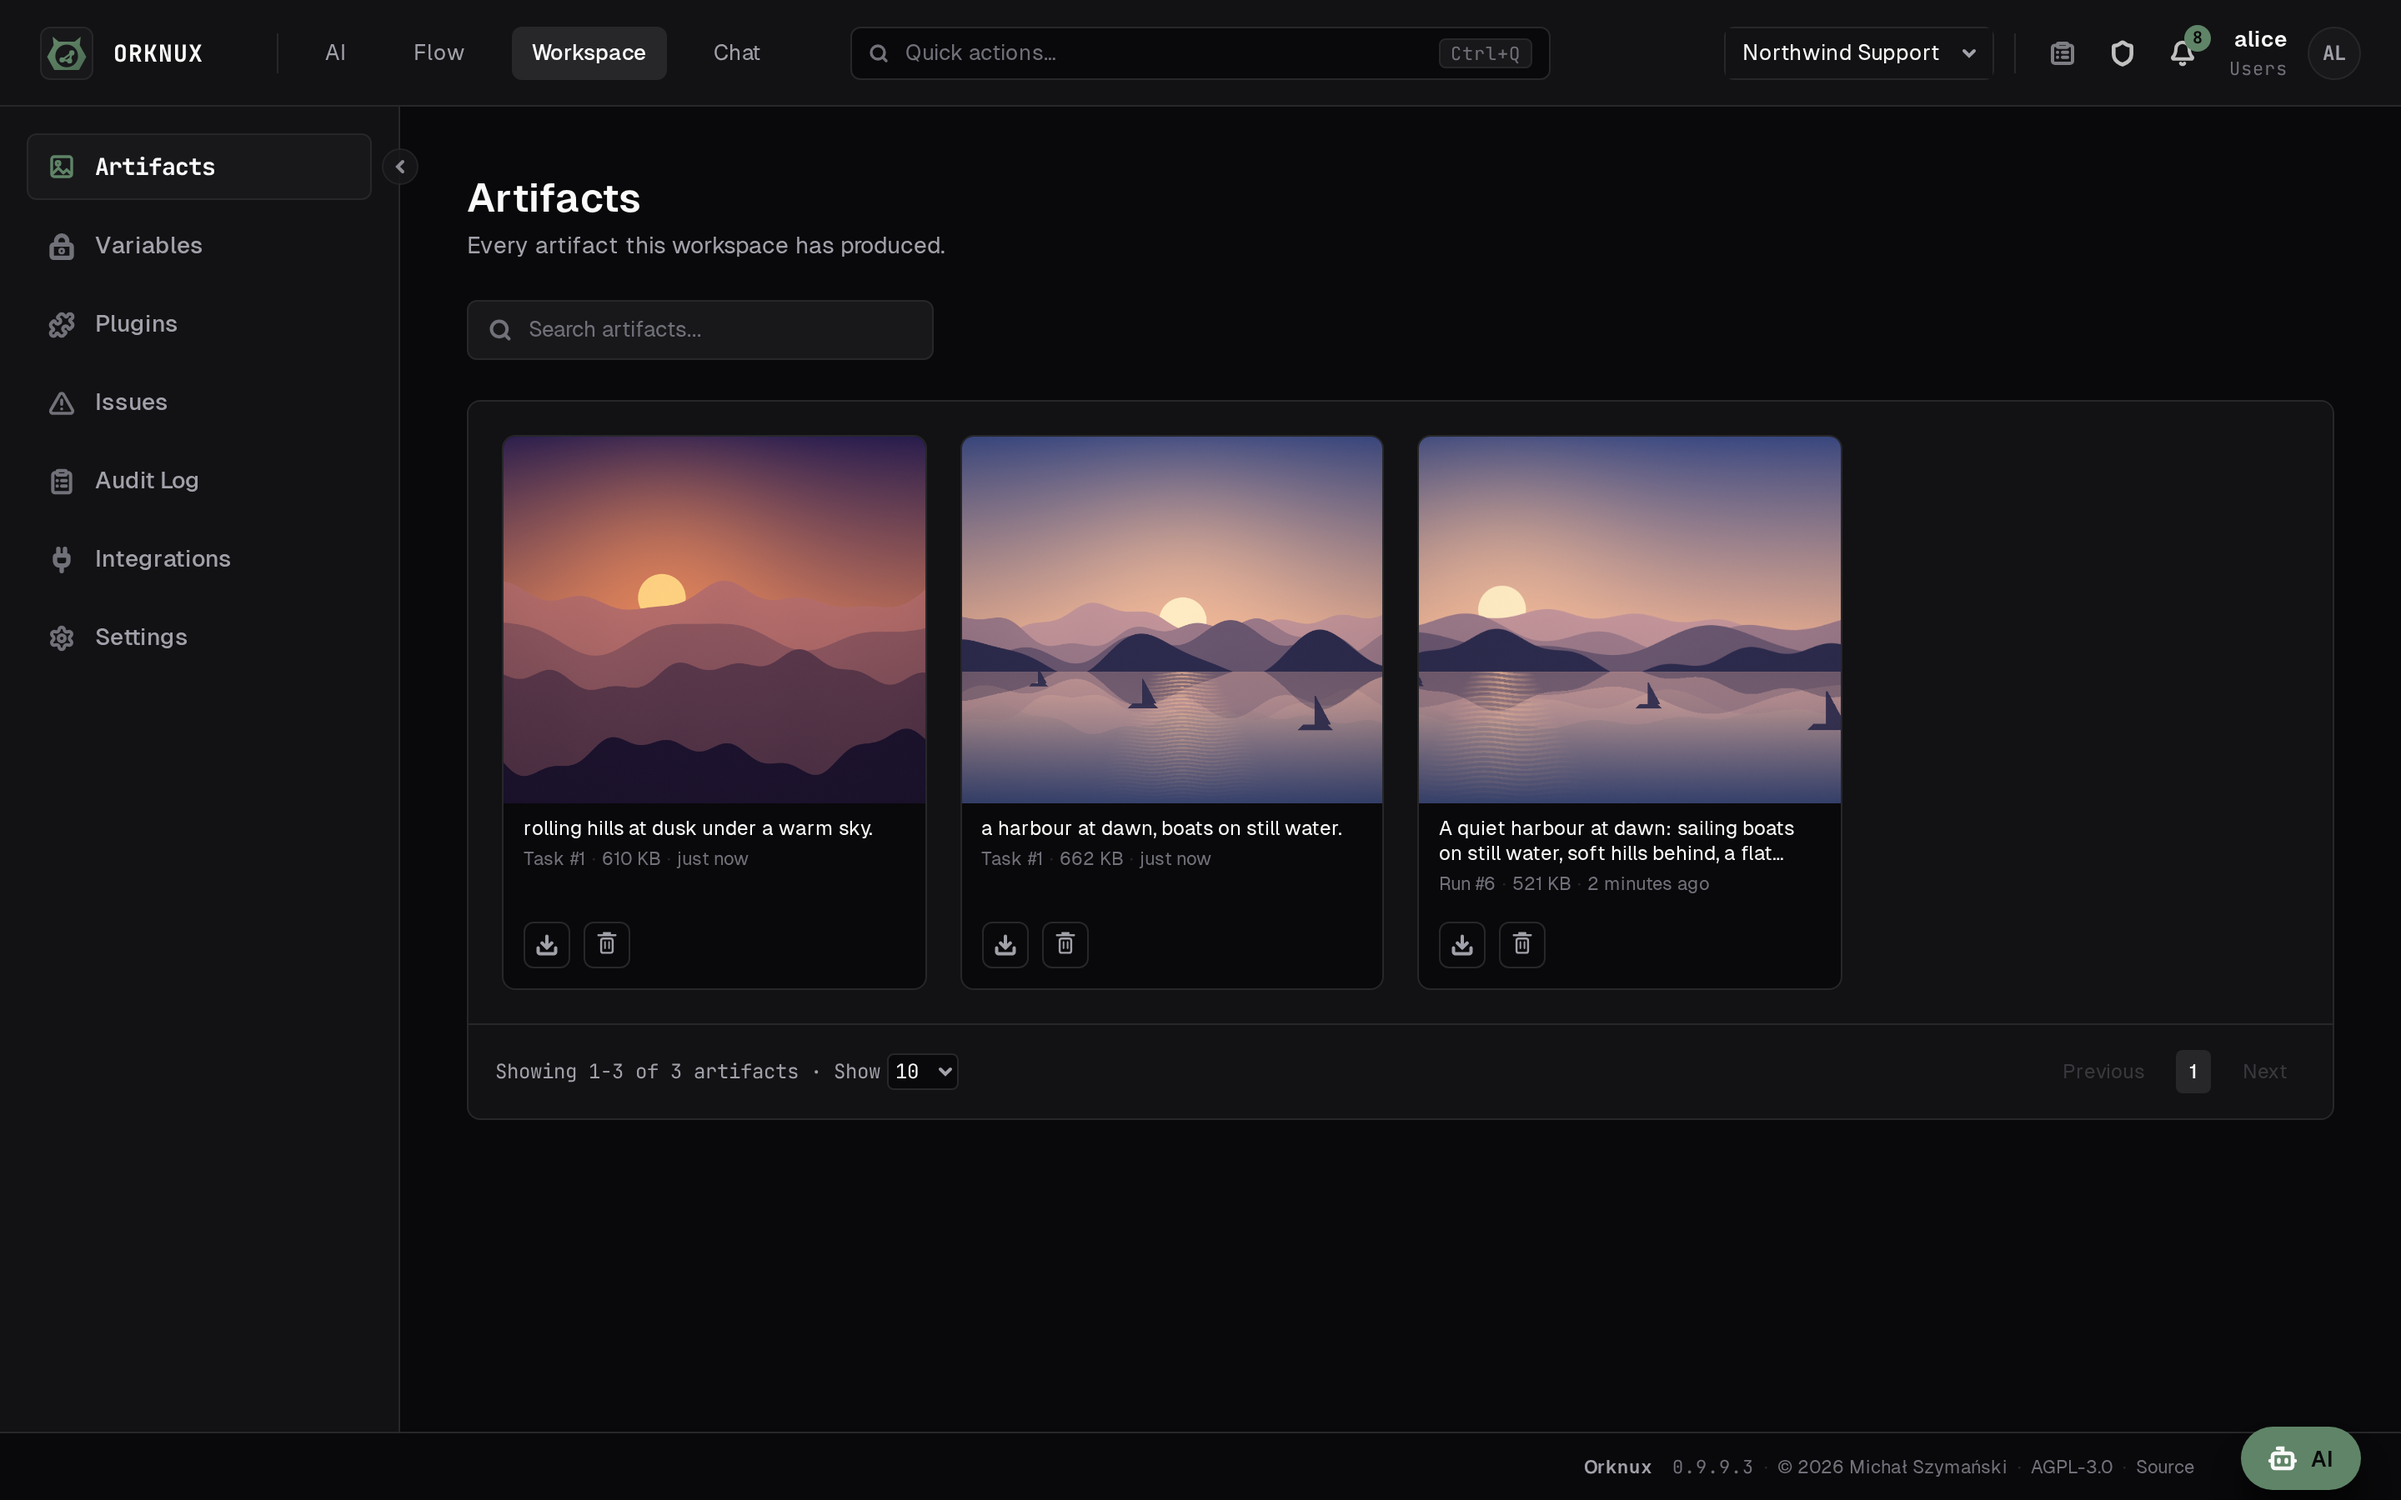
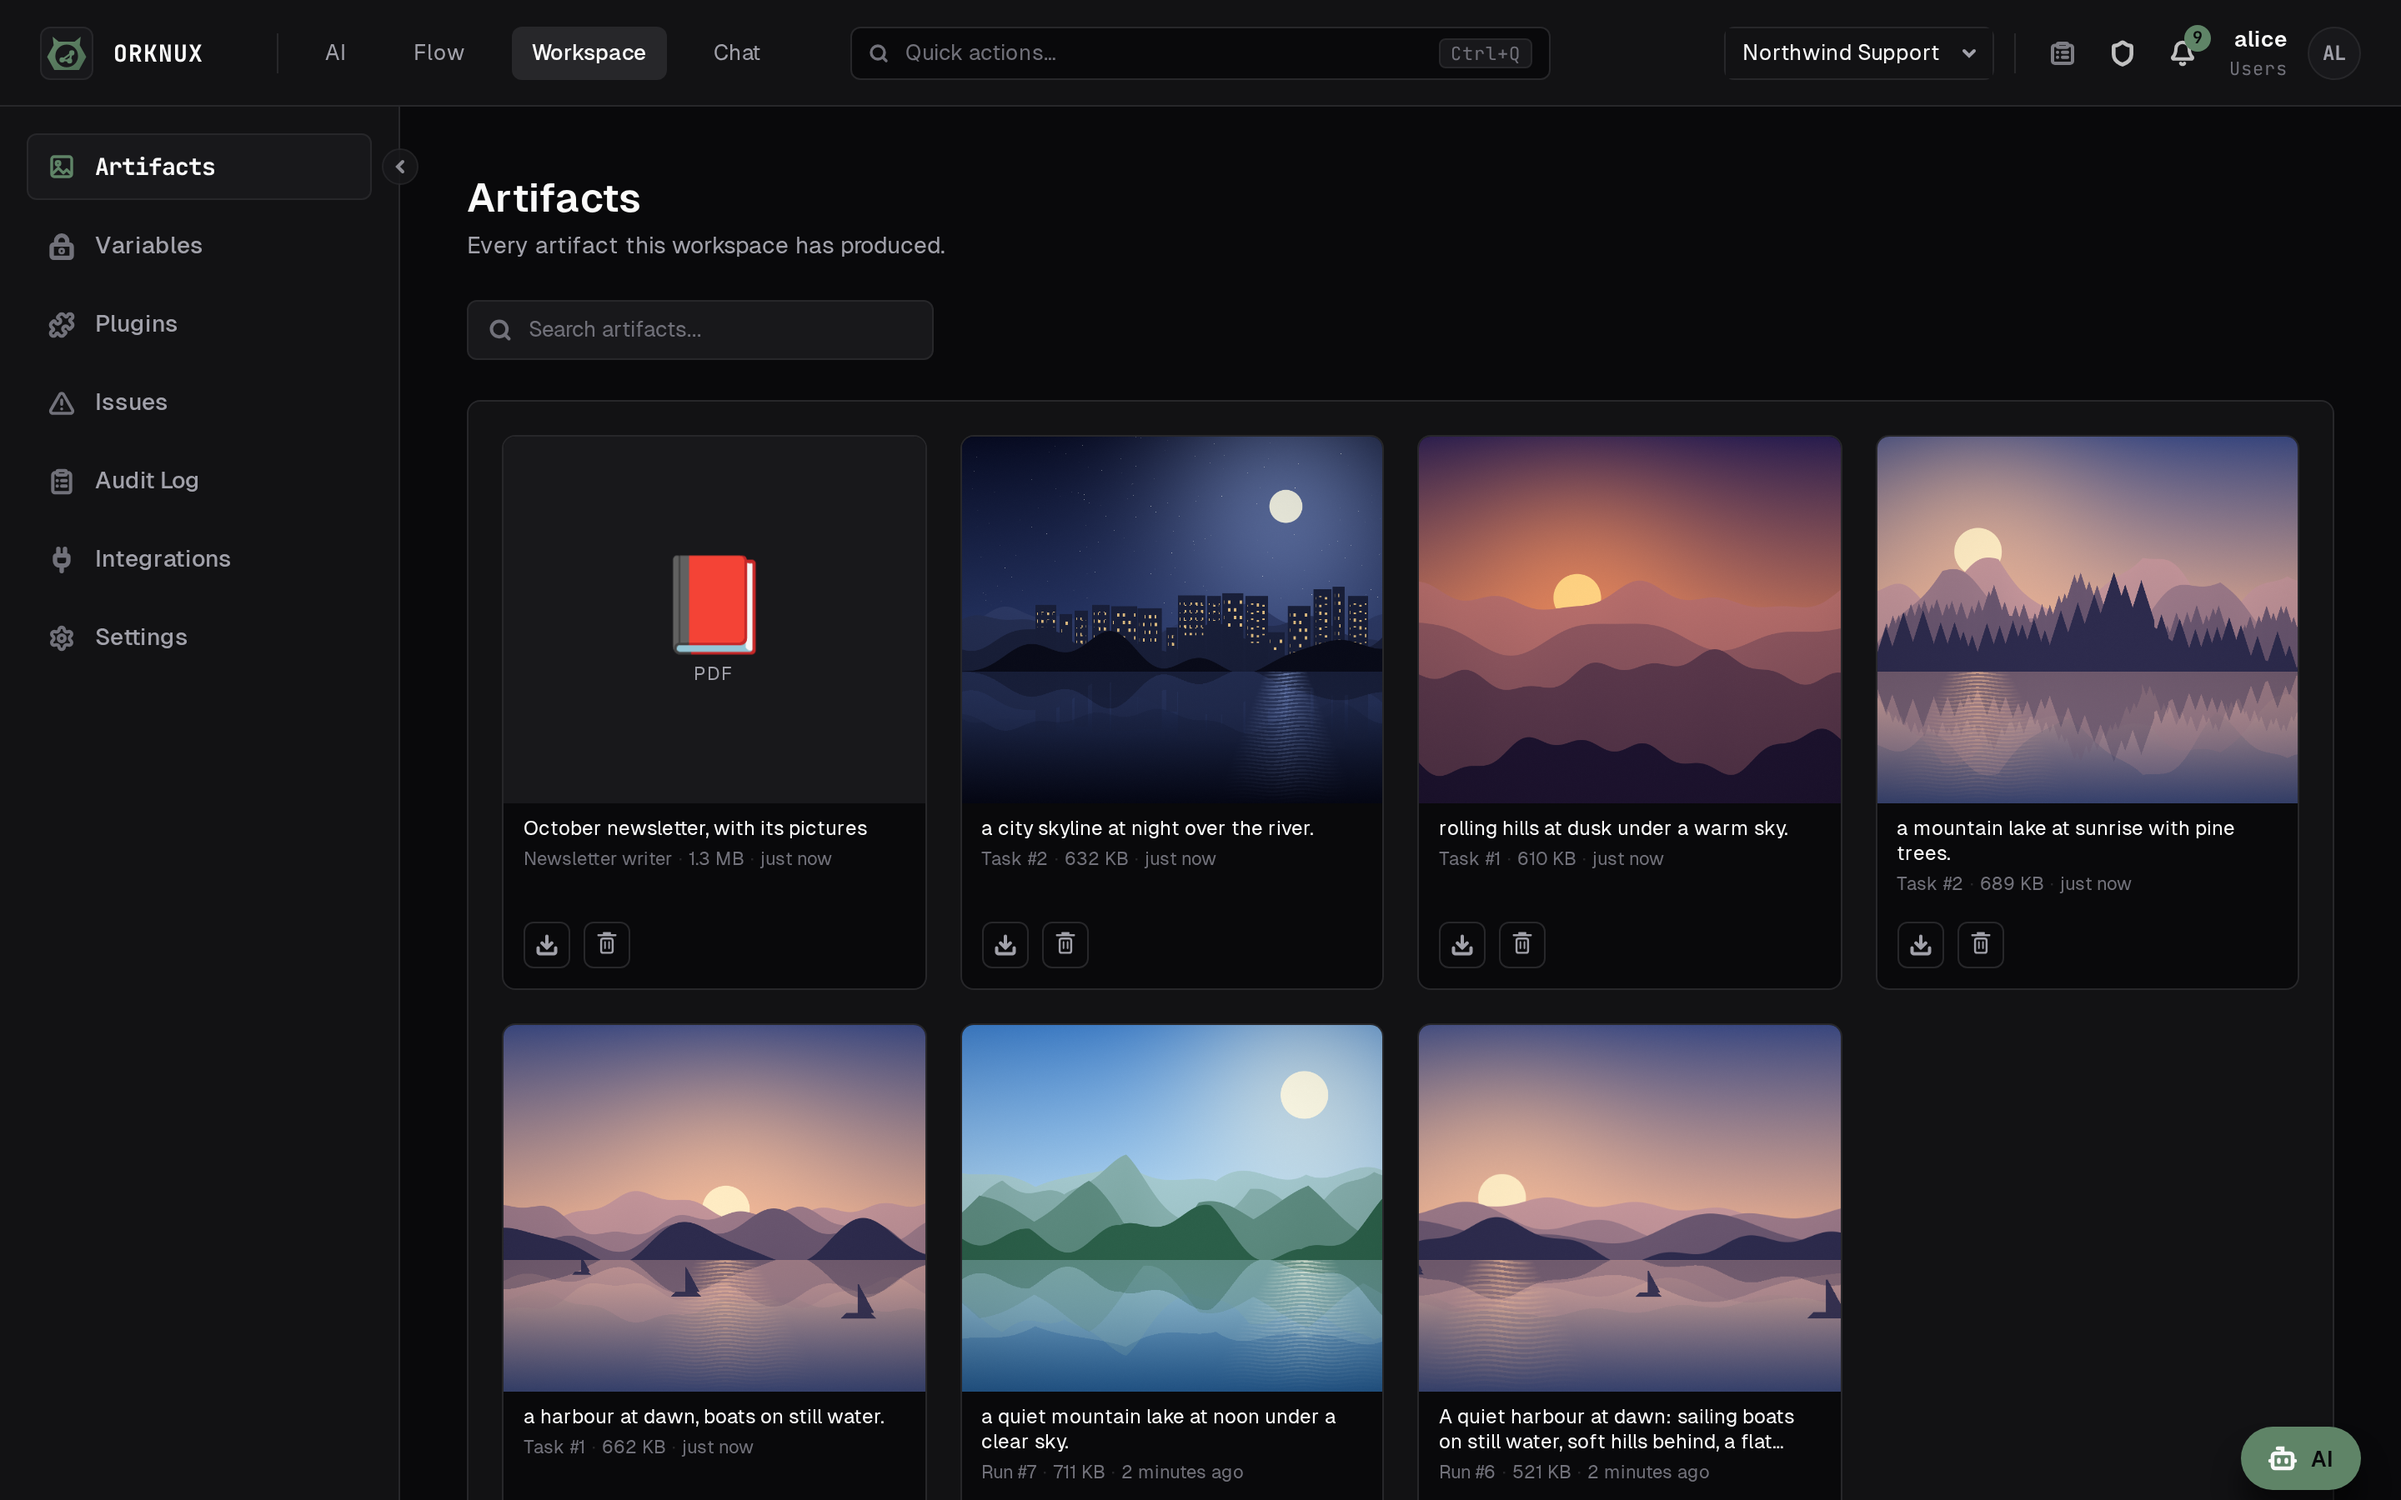
More drawing in the manual: a chat that drew twice, a PDF, a run
Issue #576, continued. The seed now also has the newsletter agent draw
twice in one chat, draw two pictures into a PDF it lays out with
pdf_fromHtml and saves, and draw in a workflow run where it places the
picture in its answer with picture_link. Five new shots follow them: the
chat with both pictures and its Files strip, a picture open in the viewer,
the task whose outcome shows the pictures and the saved PDF's first page,
a picture open on the Artifacts page, and the agent's step with its
picture in the run. The Artifacts page is retaken with them all on it.

The run's picture link is absolute, so its host is redacted in that shot
like the model endpoints are.

diff --git a/src/docs/04-models-and-agents.md b/src/docs/04-models-and-agents.md
@@ -423,6 +423,9 @@ until somebody hides it — the switch is for an agent whose answers are read
 somewhere this installation is not, where an address here resolves to nothing
 for the reader.
 
+![An agent that drew in a run: a mountain lake at noon, placed in its answer and
+shown in the panel of the step that drew it](/screens/agent-run-picture.png)
+
 ## What an agent makes, and where it goes
 
 An agent does more than answer in words. The server brings the tools for the
@@ -447,6 +450,10 @@ sends, uploads or packs a file takes.
   unpacks one somebody sent into pads, so it can be read and changed.
 - **Looking.** `picture_view` shows the model the picture behind a key: an
   attachment it read, a chart it drew.
+
+![A task that drew a mountain lake and a city at night, laid them out as a PDF and
+saved it: under its outcome the pictures, and the saved PDF drawn small by its
+first page](/screens/task-pdf.png)
 
 The server also brings **skills** that say how to use all of this -
 *Diagrams and charts*, *Complex HTML*, *Making a PDF* and *Delegating* - and
@@ -492,13 +499,16 @@ the grants. Hide it for the agent whose next node needs a real answer.
 Everything a workspace has made, on one page: the pictures its runs drew, and
 whatever an agent saved with the **save_artifact** tool.
 
-![The Artifacts page: what the workspace's runs and tasks have
-drawn](/screens/artifacts.png)
+![The Artifacts page: harbours, hills, lakes and a city at night that the
+workspace's runs and tasks drew, and the PDF one of them saved](/screens/artifacts.png)
 
 A picture opens in the viewer. A document an agent wrote — a page, a report, a
 PDF — opens to be read rather than downloading, drawn inside a frame that is
 allowed no script, no cookies and no network of its own. That last part is what
 makes it safe to open something a model wrote. Anything else downloads.
+
+![A picture a task drew, open in the viewer over the Artifacts
+page](/screens/artifact-picture.png)
 
 What is open is in the address bar, so an artifact can be linked to: send
 somebody the address and they see the thing, not the list.

diff --git a/src/docs/06-chat.md b/src/docs/06-chat.md
@@ -181,10 +181,16 @@ A picture the agent drew is a picture like any other: it is in the **Files**
 strip above the composer as soon as it is drawn, and clicking it in the thread
 opens it over the conversation.
 
+![A chat that drew twice - a snowy pine forest, then a harbour town at dusk - with
+both in the thread and in the Files strip](/screens/chat-pictures.png)
+
 Clicking a picture in a chat opens it over the conversation rather than in a new
 tab, with the arrow keys stepping between the pictures in the same group.
 Anything that is not a picture downloads instead — the server sends those as
 attachments, so there is nothing a viewer could show.
+
+![The snowy pine forest from that chat, opened over the
+conversation](/screens/picture-viewer.png)
 
 ## The AI button
 
